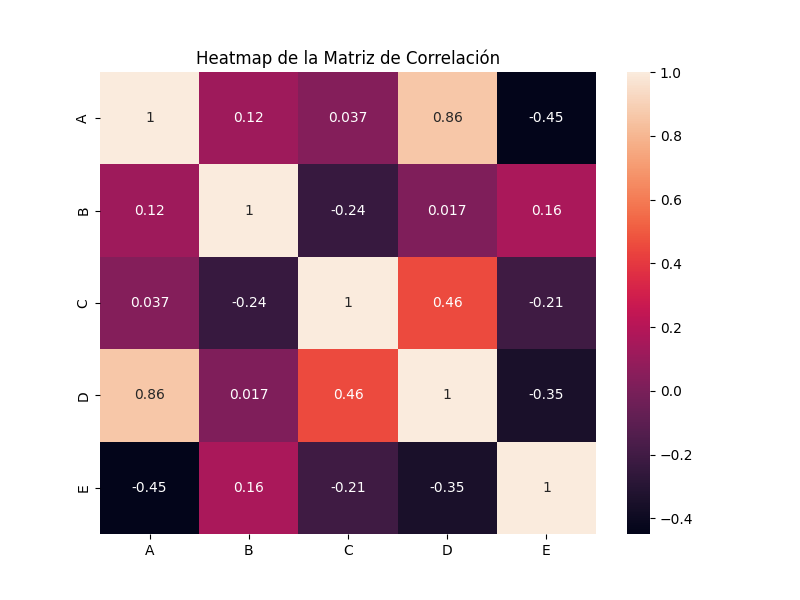
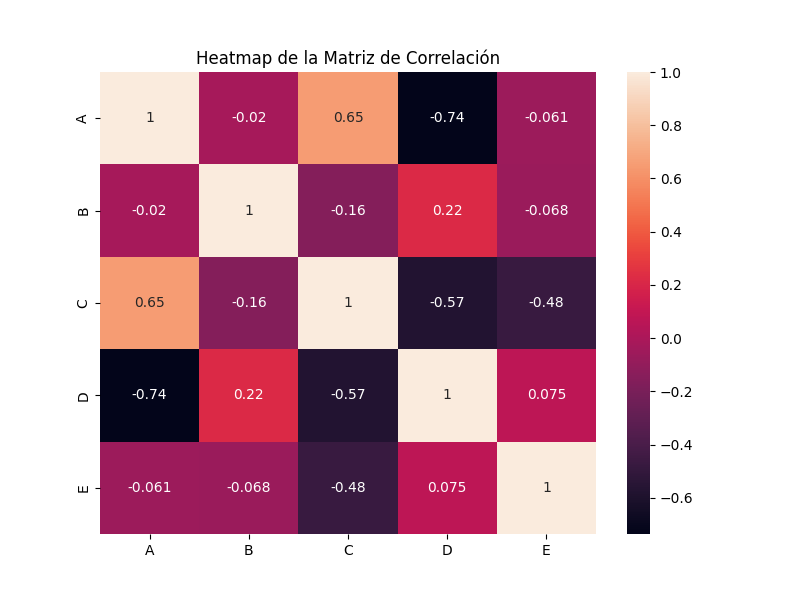
Ejemplos de Seaborn

diff --git a/modulo-2/2-seaborn/ejemplo-3.py b/modulo-2/2-seaborn/ejemplo-3.py
@@ -1,0 +1,20 @@
+# Ejemplo 3: Boxplot para Comparar Distribuciones entre Categorías
+import seaborn as sns
+import pandas as pd
+import numpy as np
+import matplotlib.pyplot as plt
+
+# Crear un DataFrame de ejemplo
+df_box = pd.DataFrame({
+    'Ventas': np.concatenate([np.random.normal(100, 15, 100),
+                               np.random.normal(120, 20, 100),
+                               np.random.normal(80, 10, 100)]),
+    'Producto': ['Producto A']*100 + ['Producto B']*100 + ['Producto C']*100
+})
+
+# Crear un boxplot
+plt.figure(figsize=(8, 6))
+sns.boxplot(x='Producto', y='Ventas', data=df_box, palette='Set2', legend=False, hue='Producto')
+plt.title('Distribución de Ventas por Producto')
+plt.savefig('./tmp/boxplot.png')
+print(df_box)

diff --git a/modulo-2/2-seaborn/ejemplo-2.py b/modulo-2/2-seaborn/ejemplo-2.py
@@ -1,0 +1,20 @@
+# Ejemplo 2: Pairplot para Visualizar Relaciones entre Variables
+import seaborn as sns
+import pandas as pd
+import numpy as np
+import matplotlib.pyplot as plt
+
+# Crear un DataFrame de ejemplo con variables numéricas y una categórica
+df_pair = pd.DataFrame({
+    'Longitud': np.random.normal(5, 2, 100),
+    'Anchura': np.random.normal(3, 1, 100),
+    'Altura': np.random.normal(10, 3, 100),
+    'Categoría': np.random.choice(['Tipo A', 'Tipo B'], 100)
+})
+
+# Crear un pairplot diferenciando por la categoría
+sns.pairplot(df_pair, hue='Categoría', diag_kind='kde')
+plt.suptitle('Pairplot de Variables', y=1.02)
+plt.savefig('./tmp/pairplot.png')
+print(df_pair)
+

diff --git a/modulo-2/2-seaborn/ejemplo-1.py b/modulo-2/2-seaborn/ejemplo-1.py
@@ -1,0 +1,19 @@
+# Ejemplo 1: Heatmap de una Matriz de Correlación
+import seaborn as sns
+import pandas as pd
+import numpy as np
+import matplotlib.pyplot as plt
+
+# Crear un DataFrame de ejemplo
+data = np.random.rand(10, 5)
+df = pd.DataFrame(data, columns=['A', 'B', 'C', 'D', 'E'])
+
+# Calcular la matriz de correlación
+corr_matrix = df.corr()
+
+# Crear un heatmap
+plt.figure(figsize=(8, 6))
+sns.heatmap(corr_matrix, annot=True, cmap='rocket')
+plt.title('Heatmap de la Matriz de Correlación')
+plt.savefig('./tmp/heatmap.png')
+print(df)
